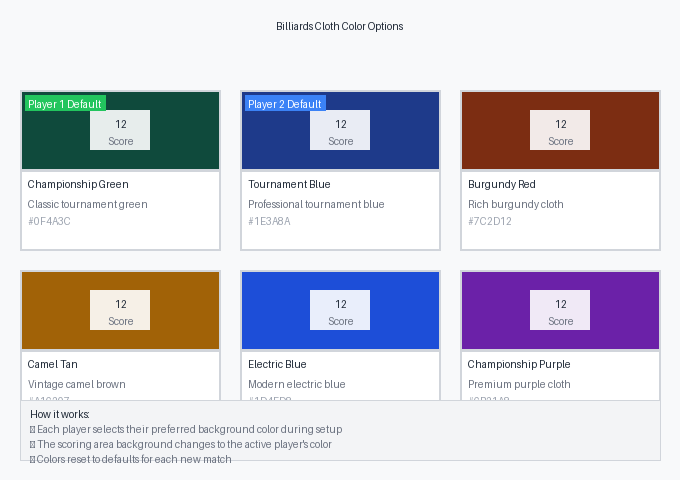
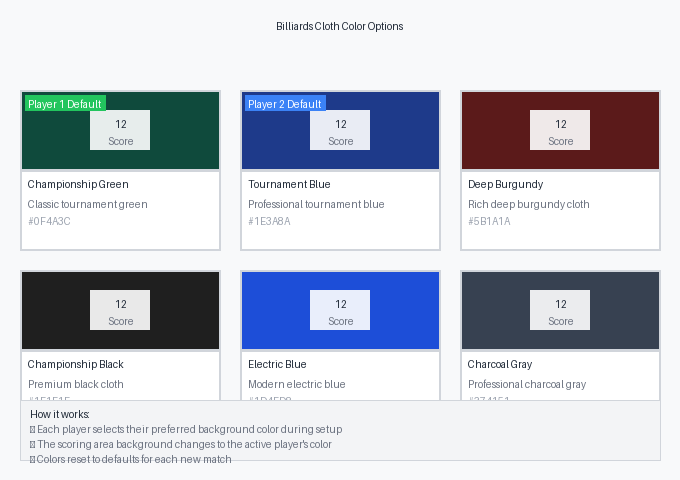
Refine the color options available for customizing the app's appearance
Updates billiards cloth color options by adjusting burgundy and introducing black/gray.

Replit-Commit-Author: Agent
Replit-Commit-Session-Id: 3eaa321e-810c-41b9-8277-ba1a53f38eec
Replit-Commit-Screenshot-Url: https://storage.googleapis.com/screenshot-production-us-central1/dbe2d108-b826-4376-b368-f9c11fb92b15/03f78a05-2989-4302-91f9-ec64860295be.jpg

Changed region(s): [[0.6794, 0.1875, 0.9882, 0.4688], [0.0309, 0.5625, 0.3397, 0.8125], [0.6794, 0.5625, 0.9882, 0.8125]]

diff --git a/create_color_swatch.py b/create_color_swatch.py
@@ -5,10 +5,10 @@ import os
 colors = [
     {"name": "Championship Green", "hex": "#0F4A3C", "desc": "Classic tournament green", "default": "Player 1 Default"},
     {"name": "Tournament Blue", "hex": "#1E3A8A", "desc": "Professional tournament blue", "default": "Player 2 Default"},
-    {"name": "Burgundy Red", "hex": "#7C2D12", "desc": "Rich burgundy cloth", "default": ""},
-    {"name": "Camel Tan", "hex": "#A16207", "desc": "Vintage camel brown", "default": ""},
+    {"name": "Deep Burgundy", "hex": "#5B1A1A", "desc": "Rich deep burgundy cloth", "default": ""},
+    {"name": "Championship Black", "hex": "#1F1F1F", "desc": "Premium black cloth", "default": ""},
     {"name": "Electric Blue", "hex": "#1D4ED8", "desc": "Modern electric blue", "default": ""},
-    {"name": "Championship Purple", "hex": "#6B21A8", "desc": "Premium purple cloth", "default": ""}
+    {"name": "Charcoal Gray", "hex": "#374151", "desc": "Professional charcoal gray", "default": ""}
 ]
 
 # Image dimensions
